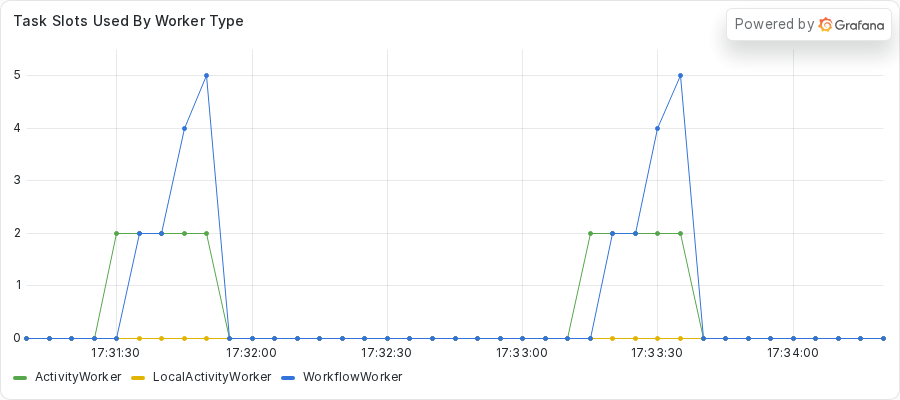
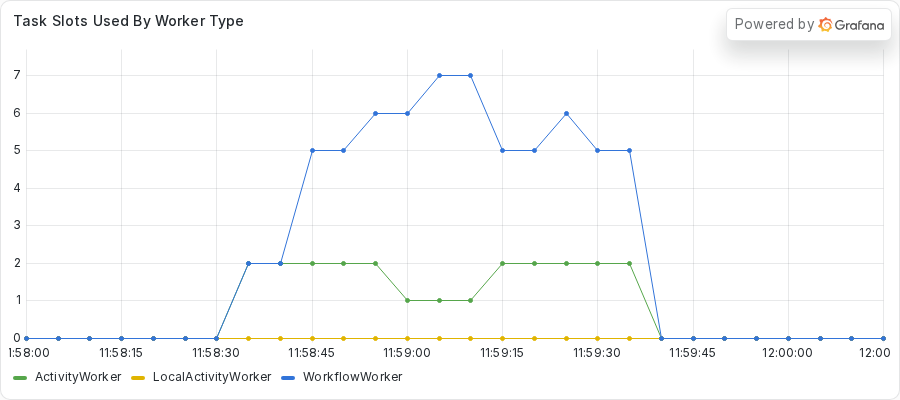
Recapture the 02 and 05 dashboards for the rework
Exercise 02 now retries on Heartbeat timeouts (Step 17) and exercise
05 has a seeded audit trail (Step 18), so the old Grafana captures no
longer matched the code. This replaces 16 Grafana PNGs for 02 and 05
and adds two Web UI screenshots of the 02 practice run, attempts 2
and 4.

The raw captures, INDEX rows, and FINDINGS live in the scratchpad.
The 02 practice runs hit TMPRL1101 in 4 of 4 runs, one failed
Workflow Task each, with TMPRL1104 in every run.

Two open questions for Mason are recorded in the session summary.
The failures panel plots activity_timeout, which never counts
Heartbeat timeouts, so it misses the 02 storm. The 03 second-Worker
"one slot each" capture does not reproduce at 2 slots, because
--bad 3 spreads the work across both Workers.

Adds a lesson: check that a dashboard panel shows the symptom before
the prose cites it.

diff --git a/.ai-sessions/session-20261108-2359-goal-step-19-recapture-for-rework.md b/.ai-sessions/session-20261108-2359-goal-step-19-recapture-for-rework.md
@@ -1,0 +1,59 @@
+# Session Summary: Step 19 Recapture For The Rework
+
+**Date**: 2026-11-08
+**Duration**: not tracked
+**Conversation Turns**: autonomous /bpe:goal step (implement, finalize; Tools block is none, so no validator pass)
+**Estimated Cost**: not tracked
+**Model**: claude-sonnet-5-5
+
+## Goal Context
+
+Driven by `/bpe:goal` over plan.md Section 9 (Post-Review Rework).
+This session covers Step 19 only, a task step that recaptures evidence after the exercise 02 retry storm (Step 17) and the exercise 05 audit trail (Step 18).
+
+## Key Actions
+
+- Recaptured exercise 02 practice and solution runs, including Web UI screenshots and the TMPRL1101 lines.
+- Recaptured exercise 05 practice and solution runs with the new audit trail.
+- Captured the root block histories and the exercise 03 second-Worker run.
+- Replaced 16 Grafana PNGs for 02 and 05 and added two Web UI PNGs: `docs/images/02-practice-ui-attempt-2.png` and `docs/images/02-practice-ui-attempt-4.png`.
+- The raw captures, INDEX rows, and FINDINGS section live in the scratchpad (`captures/INDEX.md`), not in the repo.
+- Checked off Step 19 in `todo.md`. `just check` and `just check-practice` both exit 0.
+
+## Findings
+
+- TMPRL1101 count: 4 of 4 practice runs hit it, one failed Workflow Task each, and TMPRL1104 appeared in every run.
+
+## Open Questions For Mason
+
+<CLAUDE_HELP>
+(a) The dashboard failures panel plots `activity_timeout`, which never counts Heartbeat timeouts, so it does not show the exercise 02 storm.
+`activity_task_timeout{timeout_type="Heartbeat"}` does count them.
+Decide whether the panel should switch to (or add) that series before the Section 10 prose cites the panel for 02.
+</CLAUDE_HELP>
+
+<CLAUDE_HELP>
+(b) The exercise 03 second-Worker "one slot each" capture cannot be reproduced at the shipped 2 slots.
+`--bad 3` spreads the work across the two Workers (top read 96.0 and 93.1 percent).
+Decide whether to change the scenario, change the slot count, or drop the claim.
+</CLAUDE_HELP>
+
+## Prompt Inventory
+
+| Prompt/Command | Action Taken | Outcome |
+|---|---|---|
+| mode=implement, Step 19 | Recaptured 02, 05, root, 03; replaced PNGs | Artifacts indexed in scratchpad |
+| mode=finalize | Gates, summary, lessons, commit, push | One signed commit |
+
+## Efficiency Insights
+
+- Counting TMPRL1101 and TMPRL1104 per run from the captured histories settled the retry-storm claim quickly.
+
+## Process Improvements
+
+- Check that a dashboard panel shows the symptom before writing prose that cites it. The failures panel missed Heartbeat timeouts.
+
+## Suggested Skills For Next Session
+
+- voice:teaching
+- content-design:tutorial-writing

diff --git a/todo.md b/todo.md
@@ -224,13 +224,13 @@ Mirrors `plan.md`. Check off each numbered sub-step as `/bpe:execute-plan` or `/
 
 ### Step 19: Recapture For The Rework (task)
 
-- [ ] 1. Scope defined (02 v2, 05 v2, root histories, 03 second Worker, UI and Grafana PNGs, INDEX rows, FINDINGS section)
-- [ ] 2. Tooling: temporal CLI with UI, compose stack, py-spy, PYTHONASYNCIODEBUG, Playwright via uv run --with, scripts/receipt_gaps.py
-- [ ] 3. Do: 02 practice and solution captures including Web UI screenshots and TMPRL1101 lines
-- [ ] 3. Do: 05 practice and solution captures with the new trail
-- [ ] 3. Do: root block histories; 03 two-Worker run; Step 15 fixture JSON if needed; ptrace files checked (CLAUDE_HELP if Mason has not saved them)
-- [ ] 4. Verify: every artifact indexed; `just check` if fixtures or dashboard changed
-- [ ] 5. Document: INDEX rows and FINDINGS section
+- [x] 1. Scope defined (02 v2, 05 v2, root histories, 03 second Worker, UI and Grafana PNGs, INDEX rows, FINDINGS section)
+- [x] 2. Tooling: temporal CLI with UI, compose stack, py-spy, PYTHONASYNCIODEBUG, Playwright via uv run --with, scripts/receipt_gaps.py
+- [x] 3. Do: 02 practice and solution captures including Web UI screenshots and TMPRL1101 lines
+- [x] 3. Do: 05 practice and solution captures with the new trail
+- [x] 3. Do: root block histories; 03 two-Worker run; Step 15 fixture JSON if needed; ptrace files checked (CLAUDE_HELP if Mason has not saved them)
+- [x] 4. Verify: every artifact indexed; `just check` if fixtures or dashboard changed
+- [x] 5. Document: INDEX rows and FINDINGS section
 
 ## Section 10: Rework Prose
 

diff --git a/.ai-sessions/lessons.md b/.ai-sessions/lessons.md
@@ -2,6 +2,7 @@
 
 ## Recent
 
+- A dashboard counter can silently miss a failure type: the failures panel plots `activity_timeout`, which never counts Heartbeat timeouts, so it hid the exercise 02 retry storm that `activity_task_timeout{timeout_type="Heartbeat"}` counts. Check that a panel shows the symptom the prose will cite before you write the prose (2026-11-08)
 - When a plan says a test runs against captures and no machine-readable capture exists, capture one live (`temporal workflow show --output json`) instead of reconstructing fixtures backward from the expected output; a fixture built to match the expected result makes a circular test. Step 15's first validator pass caught it (2026-11-08)
 - `sudo` through a `!` command cannot prompt for a password (no terminal), so a sysctl step needs the user's own terminal; `kernel.yama.ptrace_scope` is system-wide, so setting it there applies to this session. Read `/proc/sys/kernel/yama/ptrace_scope` to confirm instead of asking (2026-11-08)
 - py-spy is not a project dependency, so `uv run py-spy` fails with "Failed to spawn"; capture with `uvx py-spy`, the form the README prints. Under ptrace_scope 1 both `uvx py-spy dump` and `python -m asyncio ps` refuse to attach (2026-11-08)
